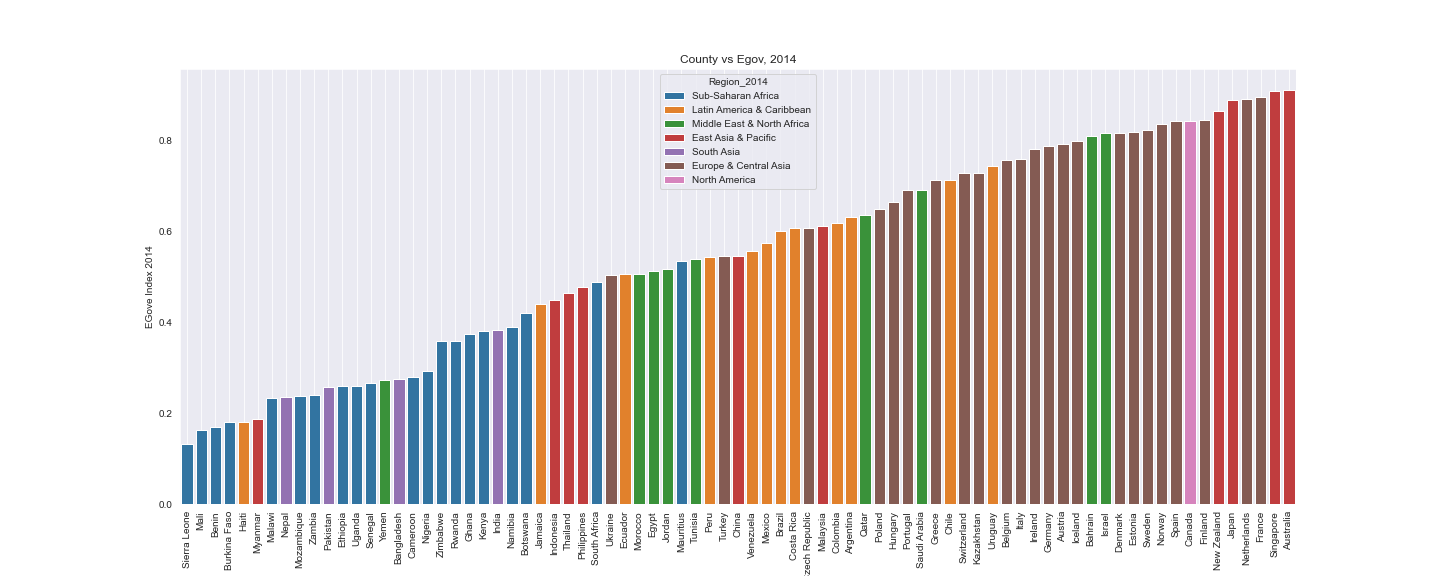
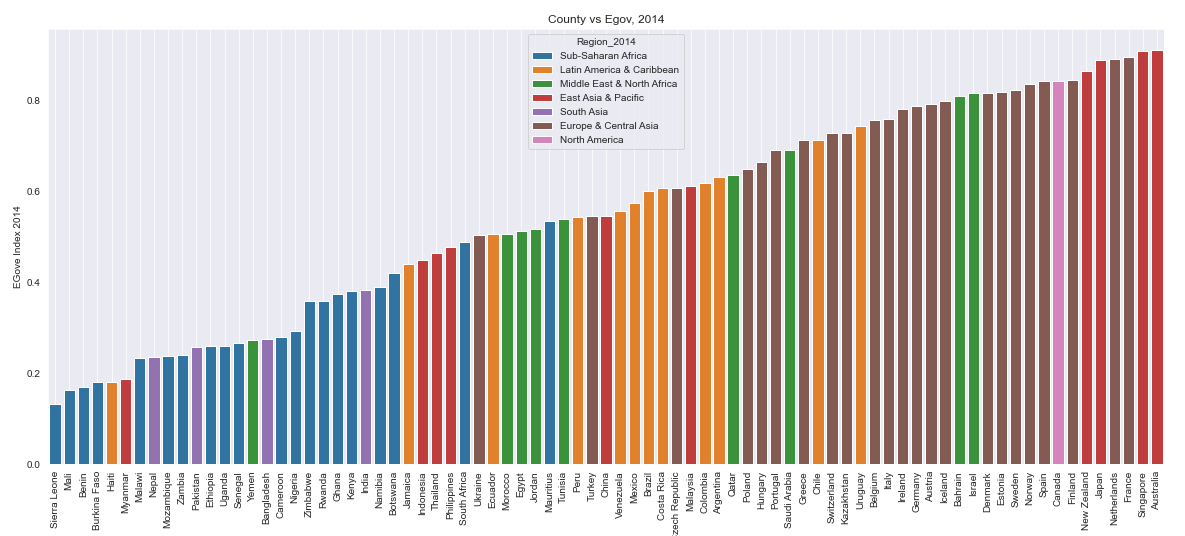
image resize

diff --git a/about.html b/about.html
@@ -69,8 +69,8 @@
                 <div class="col-md-6">
                     <h2>E-Government Index</h2>
                     <p>Access the reports below:</p>
-                    <p><a href="https://publicadministration.un.org/egovkb/Portals/egovkb/Documents/un/2014-Survey/E-Gov_Complete_Survey-2014.pdf"> <img src= "https://github.com/jshapi16/web-design-challenge/blob/main/images/egov_index_2014.jpg?raw=true" alt="E-Gov 2014" class="img-thumbnail"></a></p>
-                    <p><a href="https://publicadministration.un.org/egovkb/Portals/egovkb/Documents/un/2016-Survey/E-Government%20Survey%202016.pdf"> <img src= "#" alt="E-Gov 2016" class="img-thumbnail"></a></p>
+                    <p><a href="https://publicadministration.un.org/egovkb/Portals/egovkb/Documents/un/2014-Survey/E-Gov_Complete_Survey-2014.pdf"> <img src= "https://github.com/jshapi16/web-design-challenge/blob/main/images/e_gov_2014.jpg?raw=true" alt="E-Gov 2014" class="img-thumbnail"></a></p>
+                    <p><a href="https://publicadministration.un.org/egovkb/Portals/egovkb/Documents/un/2016-Survey/E-Government%20Survey%202016.pdf"> <img src= "https://github.com/jshapi16/web-design-challenge/blob/main/images/e_gov_2016.jpg?raw=true" alt="E-Gov 2016" class="img-thumbnail"></a></p>
                 </div>
                 <div class="col-md-6">
                     <h2>OpenData Barometer</h2>

diff --git a/e_government_index.html b/e_government_index.html
@@ -44,8 +44,27 @@
 
         <div class="container">
             <div class="jumbotron">
-                <h1 class="display-4">Assessing Data Governance</h1>
+                <h1 class="display-4">E-Government Index Analysis</h1>
             </div>
+        </div>
+        <div class=container>
+          <div class= "row d-flex justify-content-between"
+            <div class="col-md-6">
+              <img src="https://github.com/jshapi16/web-design-challenge/blob/main/images/egov_vs_country2014.png?raw=true">
+            </div>
+            <div
+            <div class="col-md-6">
+              <div class= "row d-flex justify-content-between">
+                <div class="col-md-6">
+                  
+                </div>
+
+              </div>
+
+            </div>
+        
+          </div>
+            
         </div>
         <hr>
     <div class = "container-xl">
